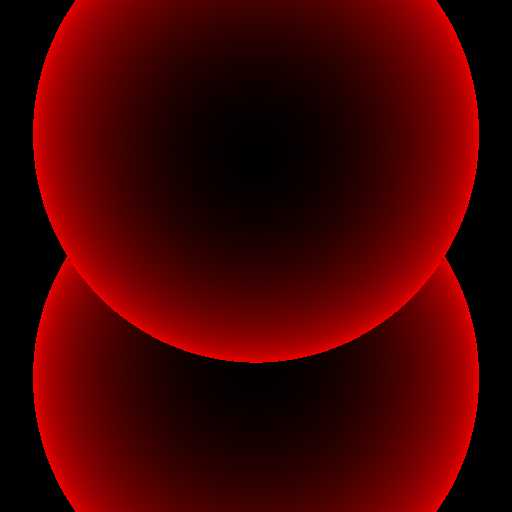
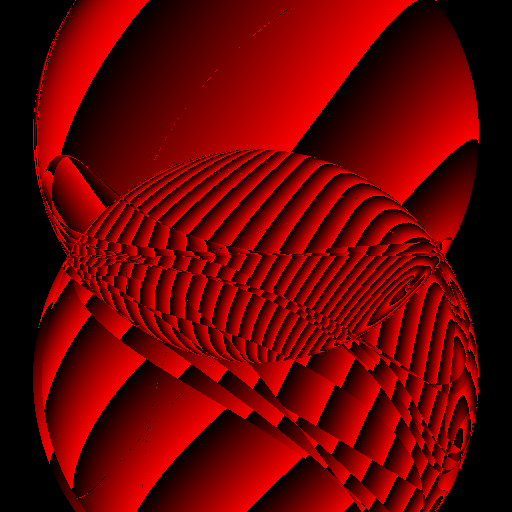
[WIP] proper coloring [WIP]

diff --git a/src/raytracer/mod.rs b/src/raytracer/mod.rs
@@ -22,6 +22,8 @@ pub struct Stray
     spheres: Vec<(Sphere, u32)>,
     //NOTE(staneesh): material and its index    
     materials: Vec<(Material, u32)>,
+
+    tracing_depth: u32,
 }
 
 impl Stray
@@ -40,6 +42,7 @@ impl Stray
             // using with_capacity?
             spheres: Vec::<(Sphere, u32)>::new(),
             materials: Vec::<(Material, u32)>::new(),
+            tracing_depth: 5,
         }
     }
     pub fn set_window_dimensions(&mut self, width: u32, height: u32)
@@ -93,9 +96,16 @@ impl Stray
         return None;
     }
     
-    fn ray_cast(&self, ray: Ray) -> (u8, u8, u8)
+    fn ray_cast(&self, ray: Ray, cur_depth: u32,
+                ray_energy: Vec3) -> Vec3
     {
-        let color = (0.0, 0.0, 0.0);
+        if cur_depth > self.tracing_depth
+        {
+            return Vec3::new(0.0, 0.0, 0.0);
+        }
+        
+        let mut color = Vec3::new(0.0, 0.0, 0.0);
+        let mut ray_energy = Vec3::new(1.0, 1.0, 1.0);
 
         for (_index, (test_sphere, mat_index)) 
             in self.spheres.iter().enumerate()
@@ -105,7 +115,7 @@ impl Stray
                 let normal_to_sphere_surface = (hit_sphere_point - 
                     test_sphere.position).normalize();
 
-                let mut contrib = Vec3::dot(
+                let contrib = Vec3::dot(
                     ray.direction.normalize(),
                     normal_to_sphere_surface
                         );
@@ -113,18 +123,29 @@ impl Stray
                 let material_hit = 
                     self.find_material_by_index(mat_index).unwrap();
 
-                let diffuse_lighting = contrib * 255.0 * 
+                let diffuse_lighting = contrib *  
                     material_hit.diffuse_color;    
 
-                return (
-                    diffuse_lighting.x() as u8,
-                    diffuse_lighting.y() as u8,
-                    diffuse_lighting.z() as u8
-                    )
+                color = color + hadamard(&(255.0 * diffuse_lighting),
+                                         &ray_energy);
+
+                ray_energy = hadamard(&ray_energy, &diffuse_lighting);
+
+                let prefect_reflection = ray.direction - 
+                    2.0*(contrib) * normal_to_sphere_surface;
+
+                let new_dir = lerp::<Vec3>(
+                    random_in_unit_sphere(), prefect_reflection,
+                    material_hit.shininess);
+
+                let new_ray = Ray::new(hit_sphere_point, new_dir);
+
+                color = color + self.ray_cast(new_ray, cur_depth + 1,
+                                         ray_energy);
             }
         }
 
-        return (color.0 as u8, color.1 as u8, color.2 as u8);
+        return color; 
     }
 
     pub fn render_scence(&self) 
@@ -172,7 +193,13 @@ impl Stray
             let current_ray = Ray::new(self.camera.position,
                                    current_pixel - self.camera.position);
 
-            let (color_x, color_y, color_z) = self.ray_cast(current_ray);
+            let pixel_color =
+                self.ray_cast(current_ray, 1, Vec3::one());
+            let (color_x, color_y, color_z) = (
+                pixel_color.x() as u8,
+                pixel_color.y() as u8,
+                pixel_color.z() as u8 );
+
             *pixel = image::Rgb([color_x, color_y, color_z]);
 
             //*pixel = image::Rgb([lerp(0 as f32, 255 as f32, u) as u8,
@@ -200,4 +227,10 @@ fn hadamard(a: &Vec3, b: &Vec3) -> Vec3
         );
 
     return result;
+}
+
+//TODO(staneesh): implement this
+fn random_in_unit_sphere() -> Vec3
+{
+    return Vec3::one();
 }
